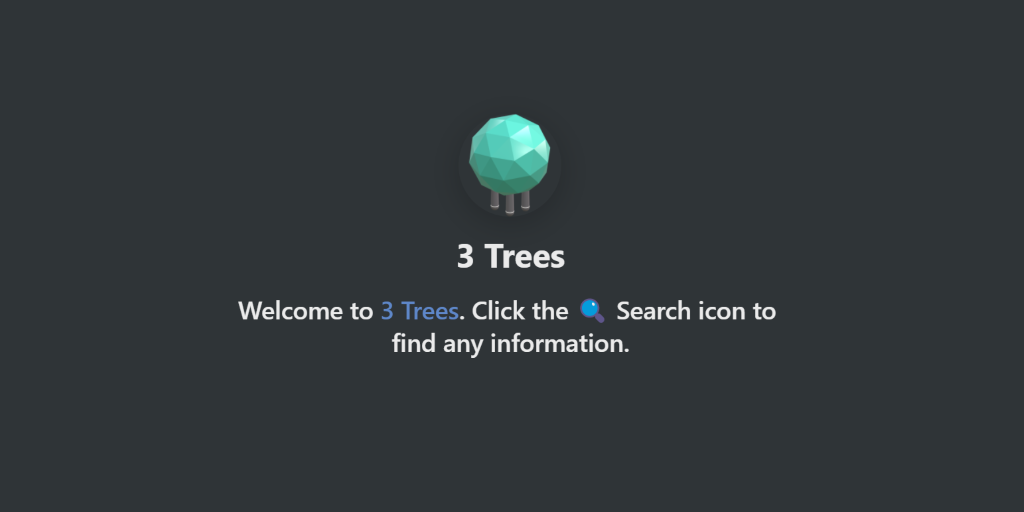
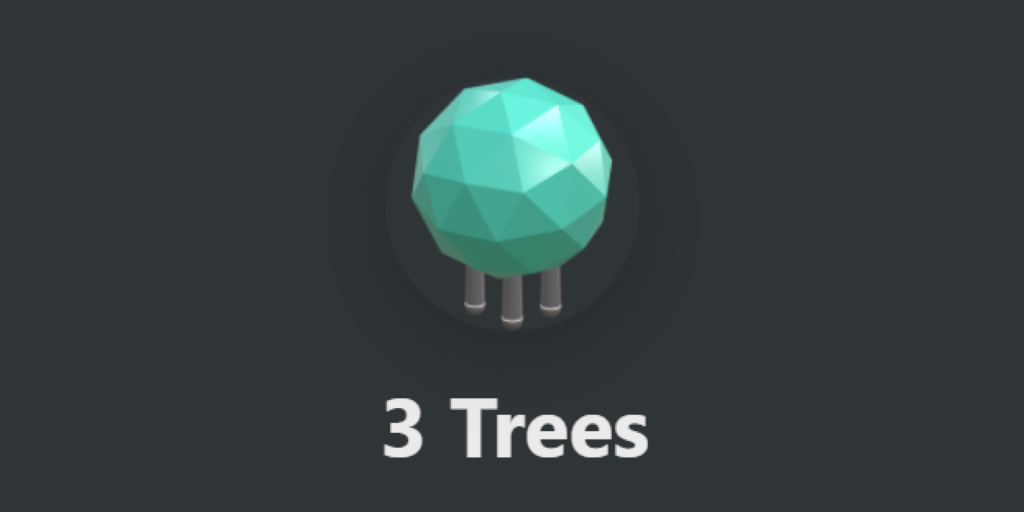
fix: remove default title

Changed region(s): [[0.2188, 0.1562, 0.7812, 0.6875], [0.375, 0.75, 0.6562, 0.9062]]

diff --git a/src/pages/_app.tsx b/src/pages/_app.tsx
@@ -36,7 +36,7 @@ function App(props: AppProps) {
       <Head>
         <meta name="viewport" content="width=device-width, initial-scale=1.0" />
       </Head>
-      <DefaultSeo title="Welcome!" titleTemplate={`%s · ${siteConfig.title}`} canonical={siteConfig.url + router.asPath} />
+      <DefaultSeo canonical={siteConfig.url + router.asPath} />
       <SocialProfileJsonLd
         type="Organization"
         name={siteConfig.title}
